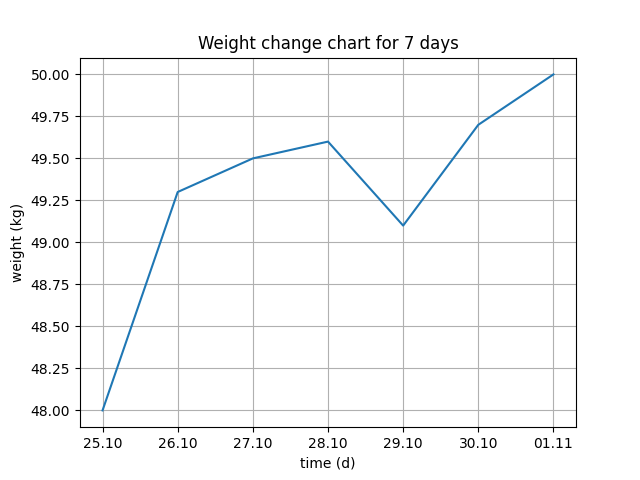
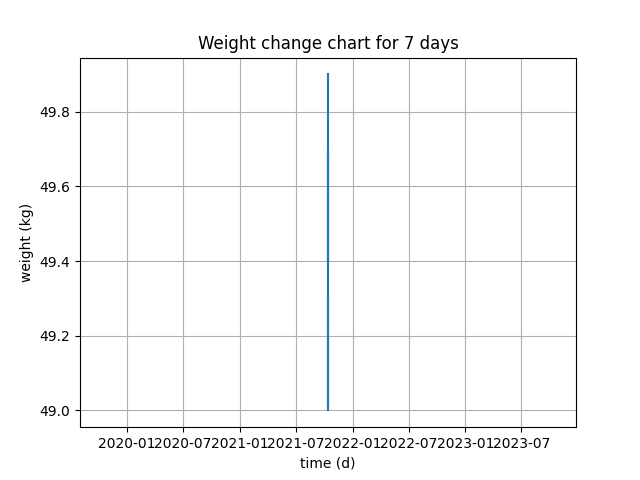
convert dates

diff --git a/test.py b/test.py
@@ -16,47 +16,6 @@ token = os.getenv('TOKEN')
 
 bot = telebot.TeleBot(token, parse_mode=None)
 
-
-# @bot.message_handler(commands=['send'])
-# def send_welcome(message):
-#     bot.reply_to(message, "Enter your weight")
-
-# @bot.message_handler(func=lambda message: True)
-# def save_to_db(message):
-#     # connect to the database
-#     connect = sqlite3.connect('message.db')
-#     cursor = connect.cursor()
-
-#     cursor.execute("""CREATE TABLE IF NOT EXISTS weight_from(
-#         user_id INTEGER,
-#         date TEXT,
-#         message TEXT 
-#     )""")
-
-#     connect.commit()
-#     # cursor.close()
-
-
-#     # user message data
-#     id_user = message.chat.id
-#     date_message = datetime.datetime.fromtimestamp(int(message.date)).strftime('%Y-%m-%d %H:%M:%S')
-#     message_user = message.text
-    
-#     params = (id_user, date_message, message_user)
-
-#     if message_user.replace('.','',1).isdigit():
-#         cursor.execute("INSERT INTO weight_from VALUES (NULL, ?, ?, ?)", params)
-#         connect.commit()
-#         cursor.close()
-
-#         bot.send_message(message.chat.id, f"Your weight is: {message_user}")
-#     else:
-#         bot.send_message(message.chat.id, "Yours input is string. Call the command /send again")
-#         print("User input is string. ")
-
-
-
-
 @bot.message_handler(commands=['show_previous_week'])
 def send_previous_values(message):
 
@@ -72,13 +31,20 @@ def send_previous_values(message):
         previous_values_w.append(float(i[0]))
     previous_values_w.reverse()
 
-    print("show", previous_values_w)
+    previous_days_p = cursor.execute("SELECT date FROM weight_from ORDER BY id DESC LIMIT 7;")
+    previous_days_p = cursor.fetchall()
+
+    previous_days_w = []
+    for i in previous_days_p:
+        previous_days_w.append(i[0])
+    previous_days_w.reverse()
+
+    print("previous_days_w", previous_days_w)
+    print("previous_values_w", previous_values_w)
     connect.commit()
 
-    print("previous_values_p", previous_values_p)
-    print("previous_values_w", previous_values_w)
 
-    # t = ["25.10", "26.10", "27.10", "28.10", "29.10", "30.10", "01.11"]
+    # t = previous_days_w
     # s = previous_values_w
 
     # fig, ax = plt.subplots()
@@ -89,14 +55,14 @@ def send_previous_values(message):
     # ax.grid()
 
     # fig.savefig("test.png")
-    # plt.show()
+    # # plt.show()
 
-    file = open('test.png', 'rb')
+    # file = open('test.png', 'rb')
 
 
-    bot.send_document(message.chat.id, file)
-    bot.send_document(message.chat.id, "FILEID")
-    # bot.send_message(message.chat.id, f"Your previous weight is: {previous_values_w}")
+    # bot.send_photo(message.chat.id, file)
+    # bot.send_photo(message.chat.id, "FILEID")
+#     # bot.send_message(message.chat.id, f"Your previous weight is: {previous_values_w}")
 
 
 
@@ -108,10 +74,8 @@ def send_previous_values(message):
 
     # connect = sqlite3.connect('message.db')
     # cursor = connect.cursor()
-    # cursor.execute("DELETE from weight_from where id > 2")
+    # cursor.execute("DELETE from weight_from where id = 98")
     # connect.commit()
-    # cursor.close()
-
 
 
 

diff --git a/app.py b/app.py
@@ -1,7 +1,8 @@
 
 import matplotlib.pyplot as plt
 import numpy as np
-from test import previous_values_w
+from matplotlib.dates import datetime as dt
+# from test import previous_values_w
 
 # x_list = [1, 2, 3, 4, 5, 6, 7]
 # y_list = [50.0, 49.8, 49.5, 49.6, 49.0, 49.7, 49.5]
@@ -15,8 +16,13 @@ from test import previous_values_w
 # plt.show()
 
 # Data for plotting
-t = ["25.10", "26.10", "27.10", "28.10", "29.10", "30.10", "01.11"]
-s = previous_values_w
+# t = ['2021-10-13', '2021-10-13', '2021-10-13', '2021-10-13', '2021-10-13', '2021-10-13', '2021-10-13']
+# s = [49.9, 49.4, 49.7, 49.2, 49.0, 49.1, 49.3]
+
+dates= ['2021-10-13', '2021-10-13', '2021-10-13', '2021-10-13', '2021-10-13', '2021-10-13', '2021-10-13']
+t = [dt.datetime.strptime('%Y-%m-%d') for d in dates]
+print(t)
+s = [49.9, 49.4, 49.7, 49.2, 49.0, 49.1, 49.3]
 
 fig, ax = plt.subplots()
 ax.plot(t, s)

diff --git a/bot_w.py b/bot_w.py
@@ -62,7 +62,7 @@ def save_to_db(message):
     )""")
 
     connect.commit()
-  
+    # cursor.close()
 
 
     # user message data
@@ -72,7 +72,7 @@ def save_to_db(message):
     
     params = (id_user, date_message, message_user)
 
-    if message_user.isdigit():
+    if message_user.replace('.','',1).isdigit():
         cursor.execute("INSERT INTO weight_from VALUES (NULL, ?, ?, ?)", params)
         connect.commit()
         cursor.close()
